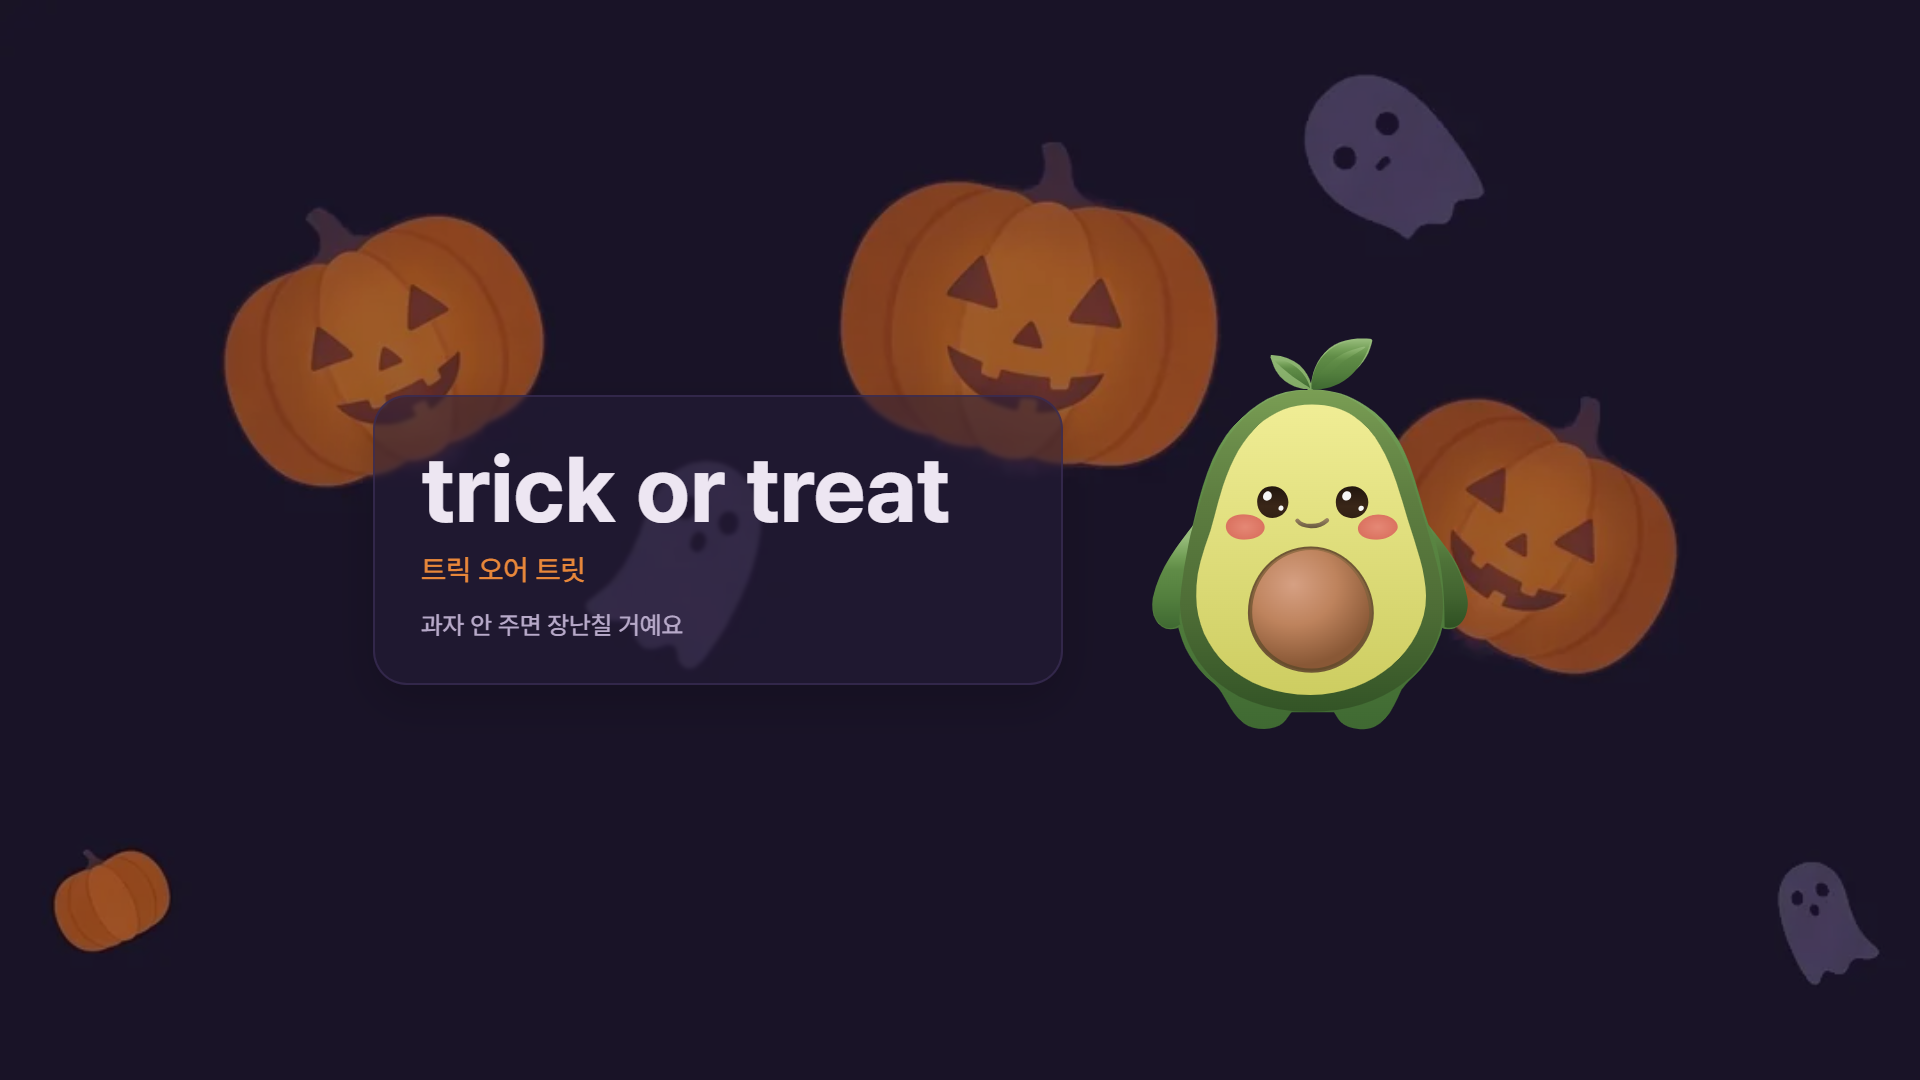
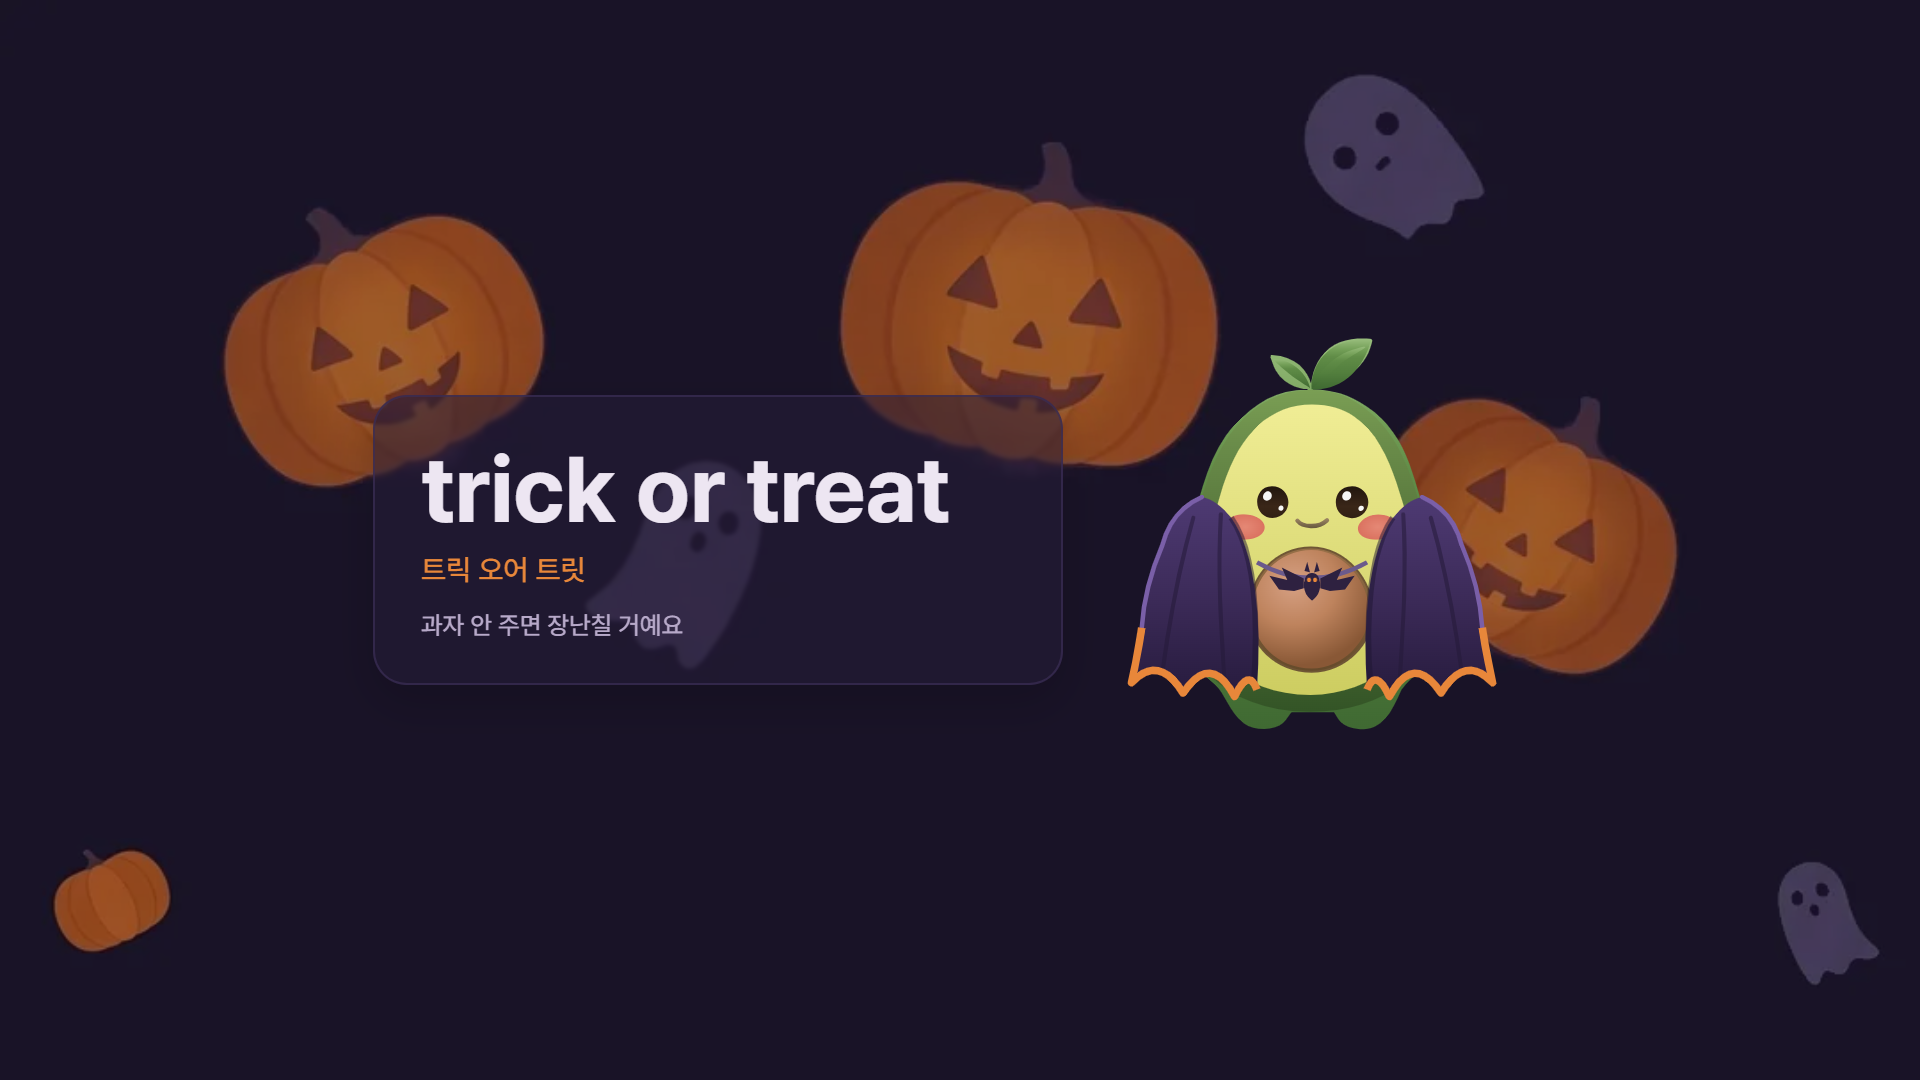
feat(store): 할로윈 카드의 캐릭터에 박쥐 망토를 입혔다
앱에서 할로윈 스킨을 켜면 캐릭터가 박쥐 망토를 입는데, 스토어 이벤트 카드의 캐릭터만
맨몸이었다. 배경 webp·팔레트·글꼴·덱의 진짜 단어를 앱에서 그대로 가져오는 렌더러에서
캐릭터만 다른 얼굴이면, 카드를 보고 눌러 들어온 사람이 다른 앱을 만난다.

`components/CharacterAccessory.tsx` 의 `HalloweenCape` 를 평범한 SVG 로 옮겨 캐릭터 SVG 의
**마지막 자식**으로 끼운다 — 앱이 `<Svg>` 안에 얹는 것과 같은 자리라 겹치는 순서(망토가
몸 위)가 저절로 같아진다. 별도 `<img>` 를 절대배치로 포개지 않는 이유도 앱과 같다.

🔴 RN SVG 에서 바뀌는 것은 셋뿐이다 — 태그 대소문자 · 속성 이름(`strokeWidth`→`stroke-width`) ·
transform 배열(`[{translateX:250},{scaleX:-1}]`→`translate(250 0) scale(-1 1)`).
**치수는 한 자리도 안 건드렸다.** 팔 끝에서 +9(x26)·상단이 몸통 경계에 접하는 y100·x61 은
앱에서 실측으로 맞춘 값이라 여기서 손대면 둘이 갈라진다.

🔑 반대로, 앱에서 안 보이던 것이 여기선 보인다. 망토가 앱에서 서는 크기는 56dp 라 주름 한 줄이
1px 로 사라지지만 카드에선 캐릭터가 300~430px 다. 세 겹(그라디언트·주름·안쪽 그늘)이 전부
제 몫을 한다 — 그러니 이쪽이 보기 좋으라고 값을 고치면 56dp 가 망가진다.

곁다리 하나: `--final` 은 «확정본을 뽑는다»는 뜻인데 기본 출력이 out/ 이었다. README 는 final/
이라고 적혀 있었으니, 확정본을 갱신한 줄 알고 옛 파일을 스토어에 올릴 자리였다. 기본값을 맞췄다.

다시 뽑은 것: horror · halloween-en 넉 장. hangul·major 는 안 건드렸다(갓은 치수가 계산식이라
값을 풀어 적어야 해서 아직 안 옮겼다).

Changed region(s): [[0.5625, 0.4583, 0.7812, 0.6417]]

diff --git a/store-assets/event-cards/README.md b/store-assets/event-cards/README.md
@@ -32,7 +32,7 @@
 ## 만드는 법
 
 ```bash
-node store-assets/event-cards/render.mjs --final          # 확정본 4장 → final/
+node store-assets/event-cards/render.mjs --final          # 확정본 8장 → final/
 node store-assets/event-cards/render.mjs                  # 후보 A·B·C·D 전량 → out/
 node store-assets/event-cards/render.mjs --only horror     # 한 이벤트만
 ```
@@ -52,8 +52,17 @@ node store-assets/event-cards/render.mjs --only horror     # 한 이벤트만
   않는다). 경로는 `render.mjs` 맨 위 `CHROME`.
 - 🔴 **스킨 배경은 SVG 가 아니라 1080×2340 webp 다.** 9:16 은 원본에서 잘라 쓰면 되지만
   16:9 는 1.78배 확대다 — 문양이 평면이라 견디고, 스토어에서 작게 보여 티가 안 난다.
-- ⏭ 캐릭터는 기본 아보카도다. **스킨 소품(할로윈 박쥐 망토)은 앱 안에서 그려지는 RN SVG**라
-  HTML 로 옮기려면 경로를 베껴 와야 한다.
+- ✅ **할로윈 카드의 캐릭터는 박쥐 망토를 입는다**(9/9). `components/CharacterAccessory.tsx` 의
+  `HalloweenCape` 를 평범한 SVG 로 옮겨 캐릭터 SVG 의 **마지막 자식**으로 끼운다 — 앱이 `<Svg>`
+  안에 얹는 것과 같은 자리라 겹치는 순서(망토가 몸 위)가 저절로 같아진다. RN → SVG 에서 바뀌는
+  것은 셋뿐이다: 태그 대소문자 · 속성 이름(`strokeWidth`→`stroke-width`) · transform 배열
+  (`[{translateX:250},{scaleX:-1}]`→`translate(250 0) scale(-1 1)`).
+  🔴 **치수는 옮기기만 하고 고치지 않는다.** 팔 끝에서 +9(x26) 같은 값은 앱에서 실측으로 맞춘
+  것이라 여기서 손대면 둘이 갈라진다. 반대로 앱에서 안 보이던 것이 여기선 보인다 — 망토가
+  앱에선 56dp 지만 카드에선 300~430px 라 주름 한 줄이 1px 이 아니라 4px 다. **보기 좋으라고
+  이쪽 값을 바꾸면 56dp 쪽이 망가진다.**
+- 한글날 카드의 캐릭터는 갓을 안 썼다. 같은 방법으로 옮길 수 있지만(`HangulGat`), 갓은 치수가
+  계산식이라 값을 풀어 적어야 한다 — 아직 안 했다.
 
 ## 스토어프론트 — 한국·미국 (은정님, 2026-09-09)
 
